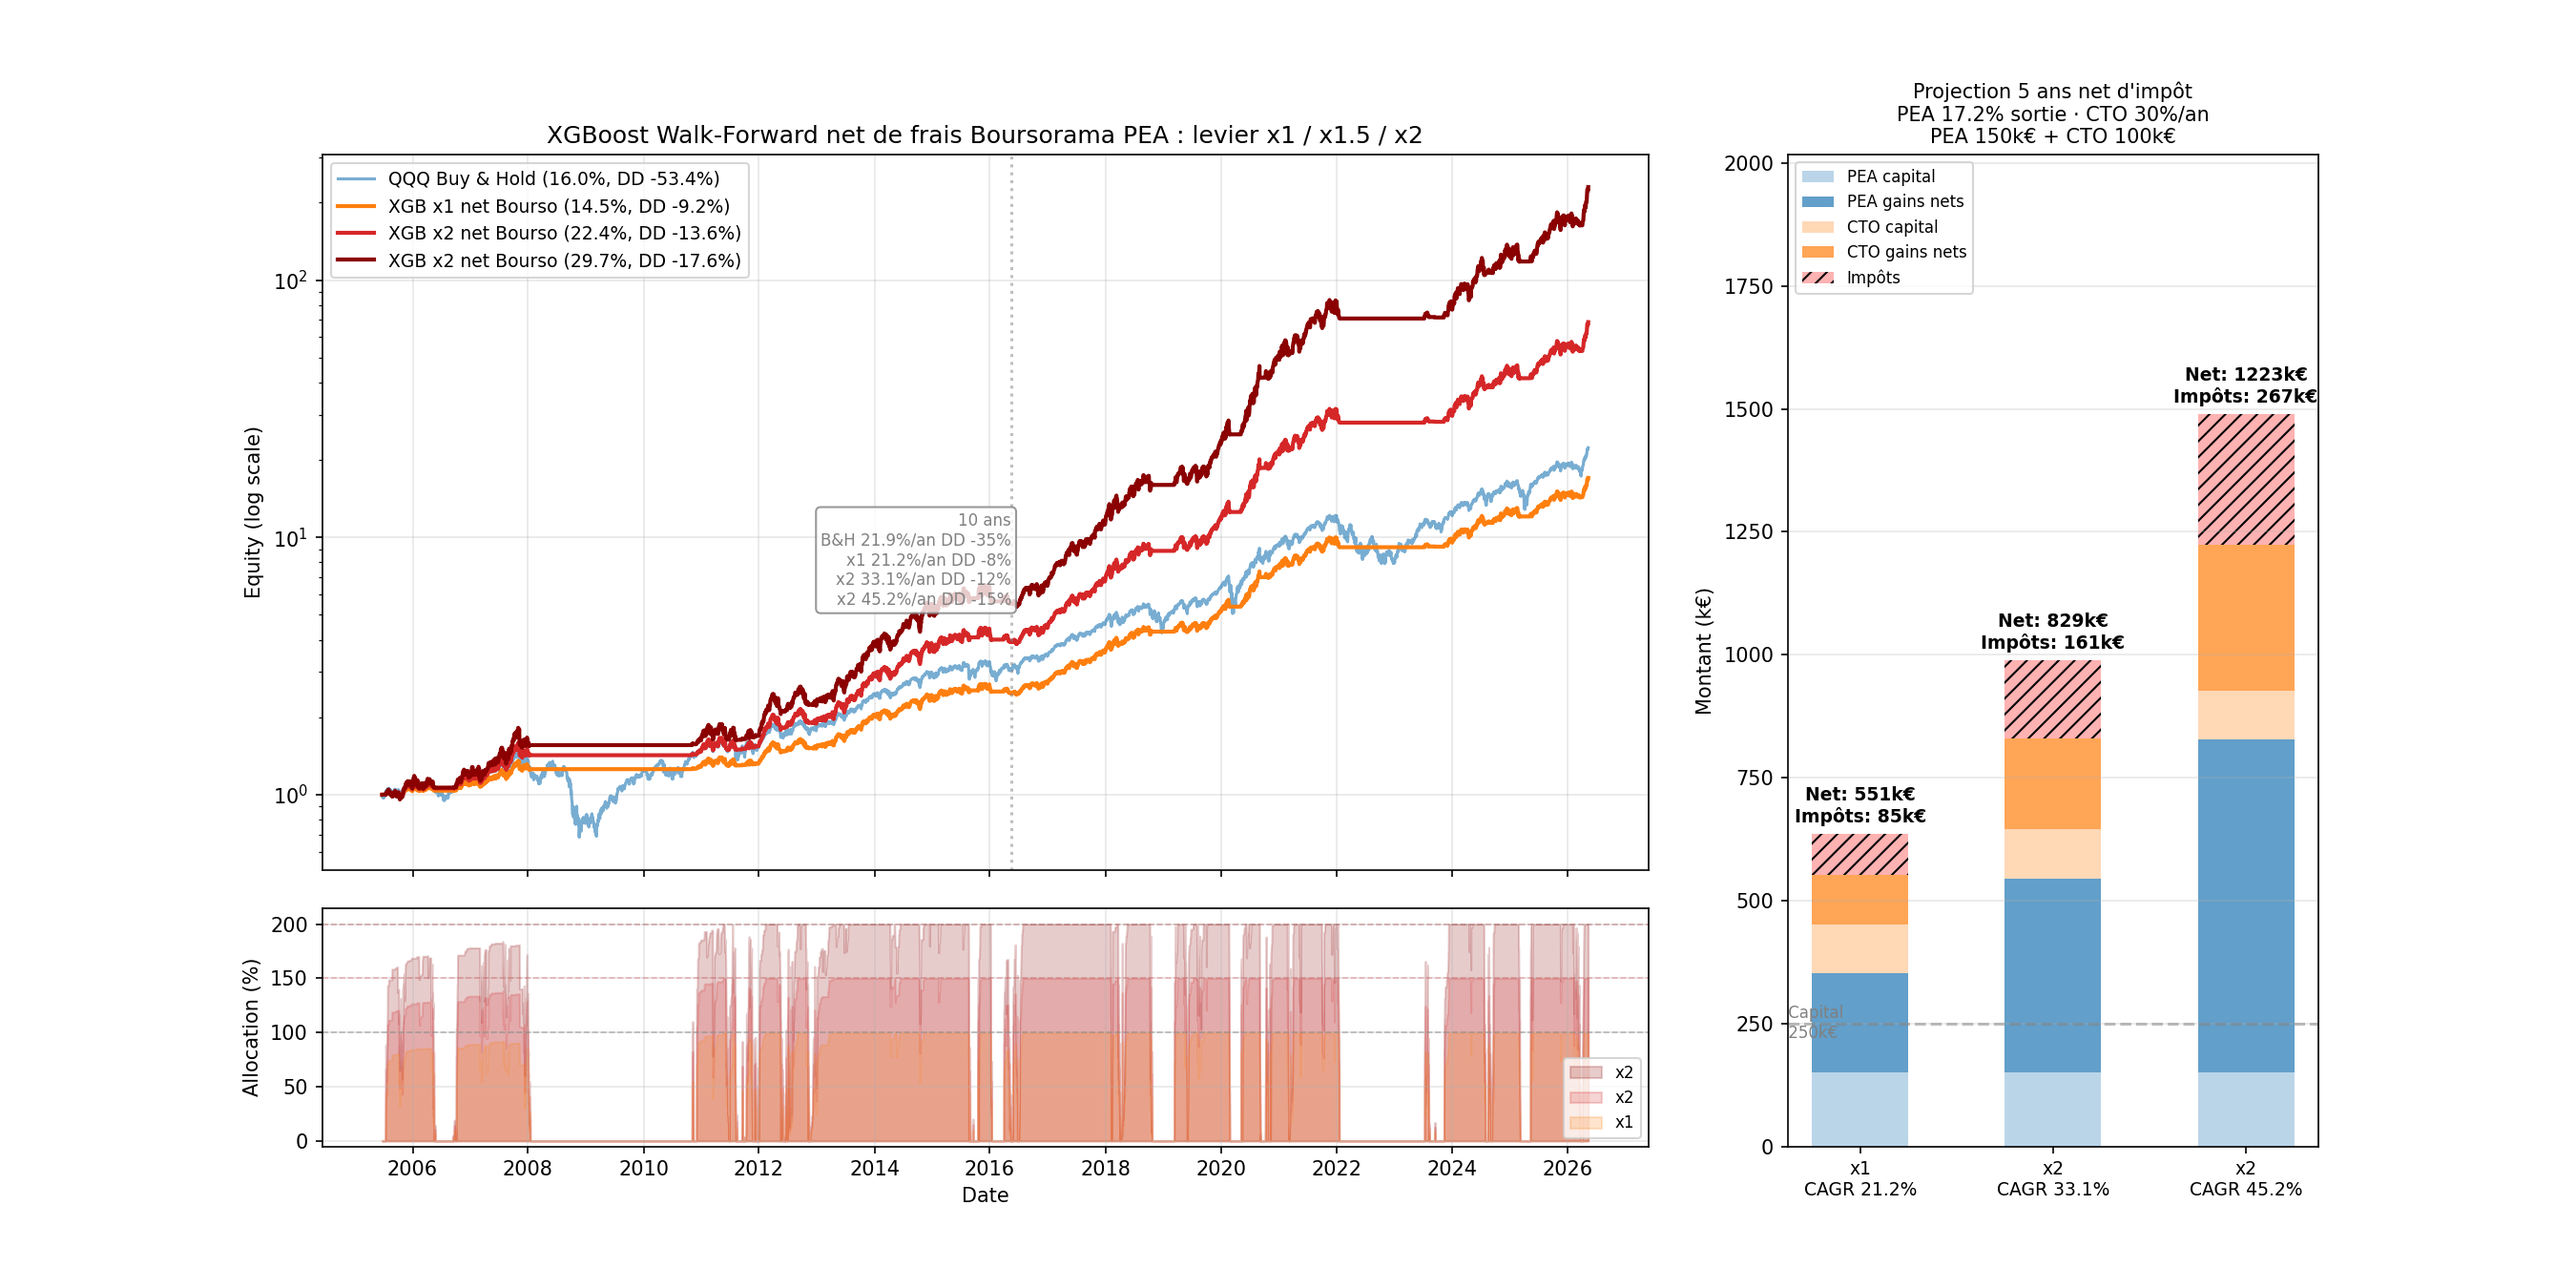
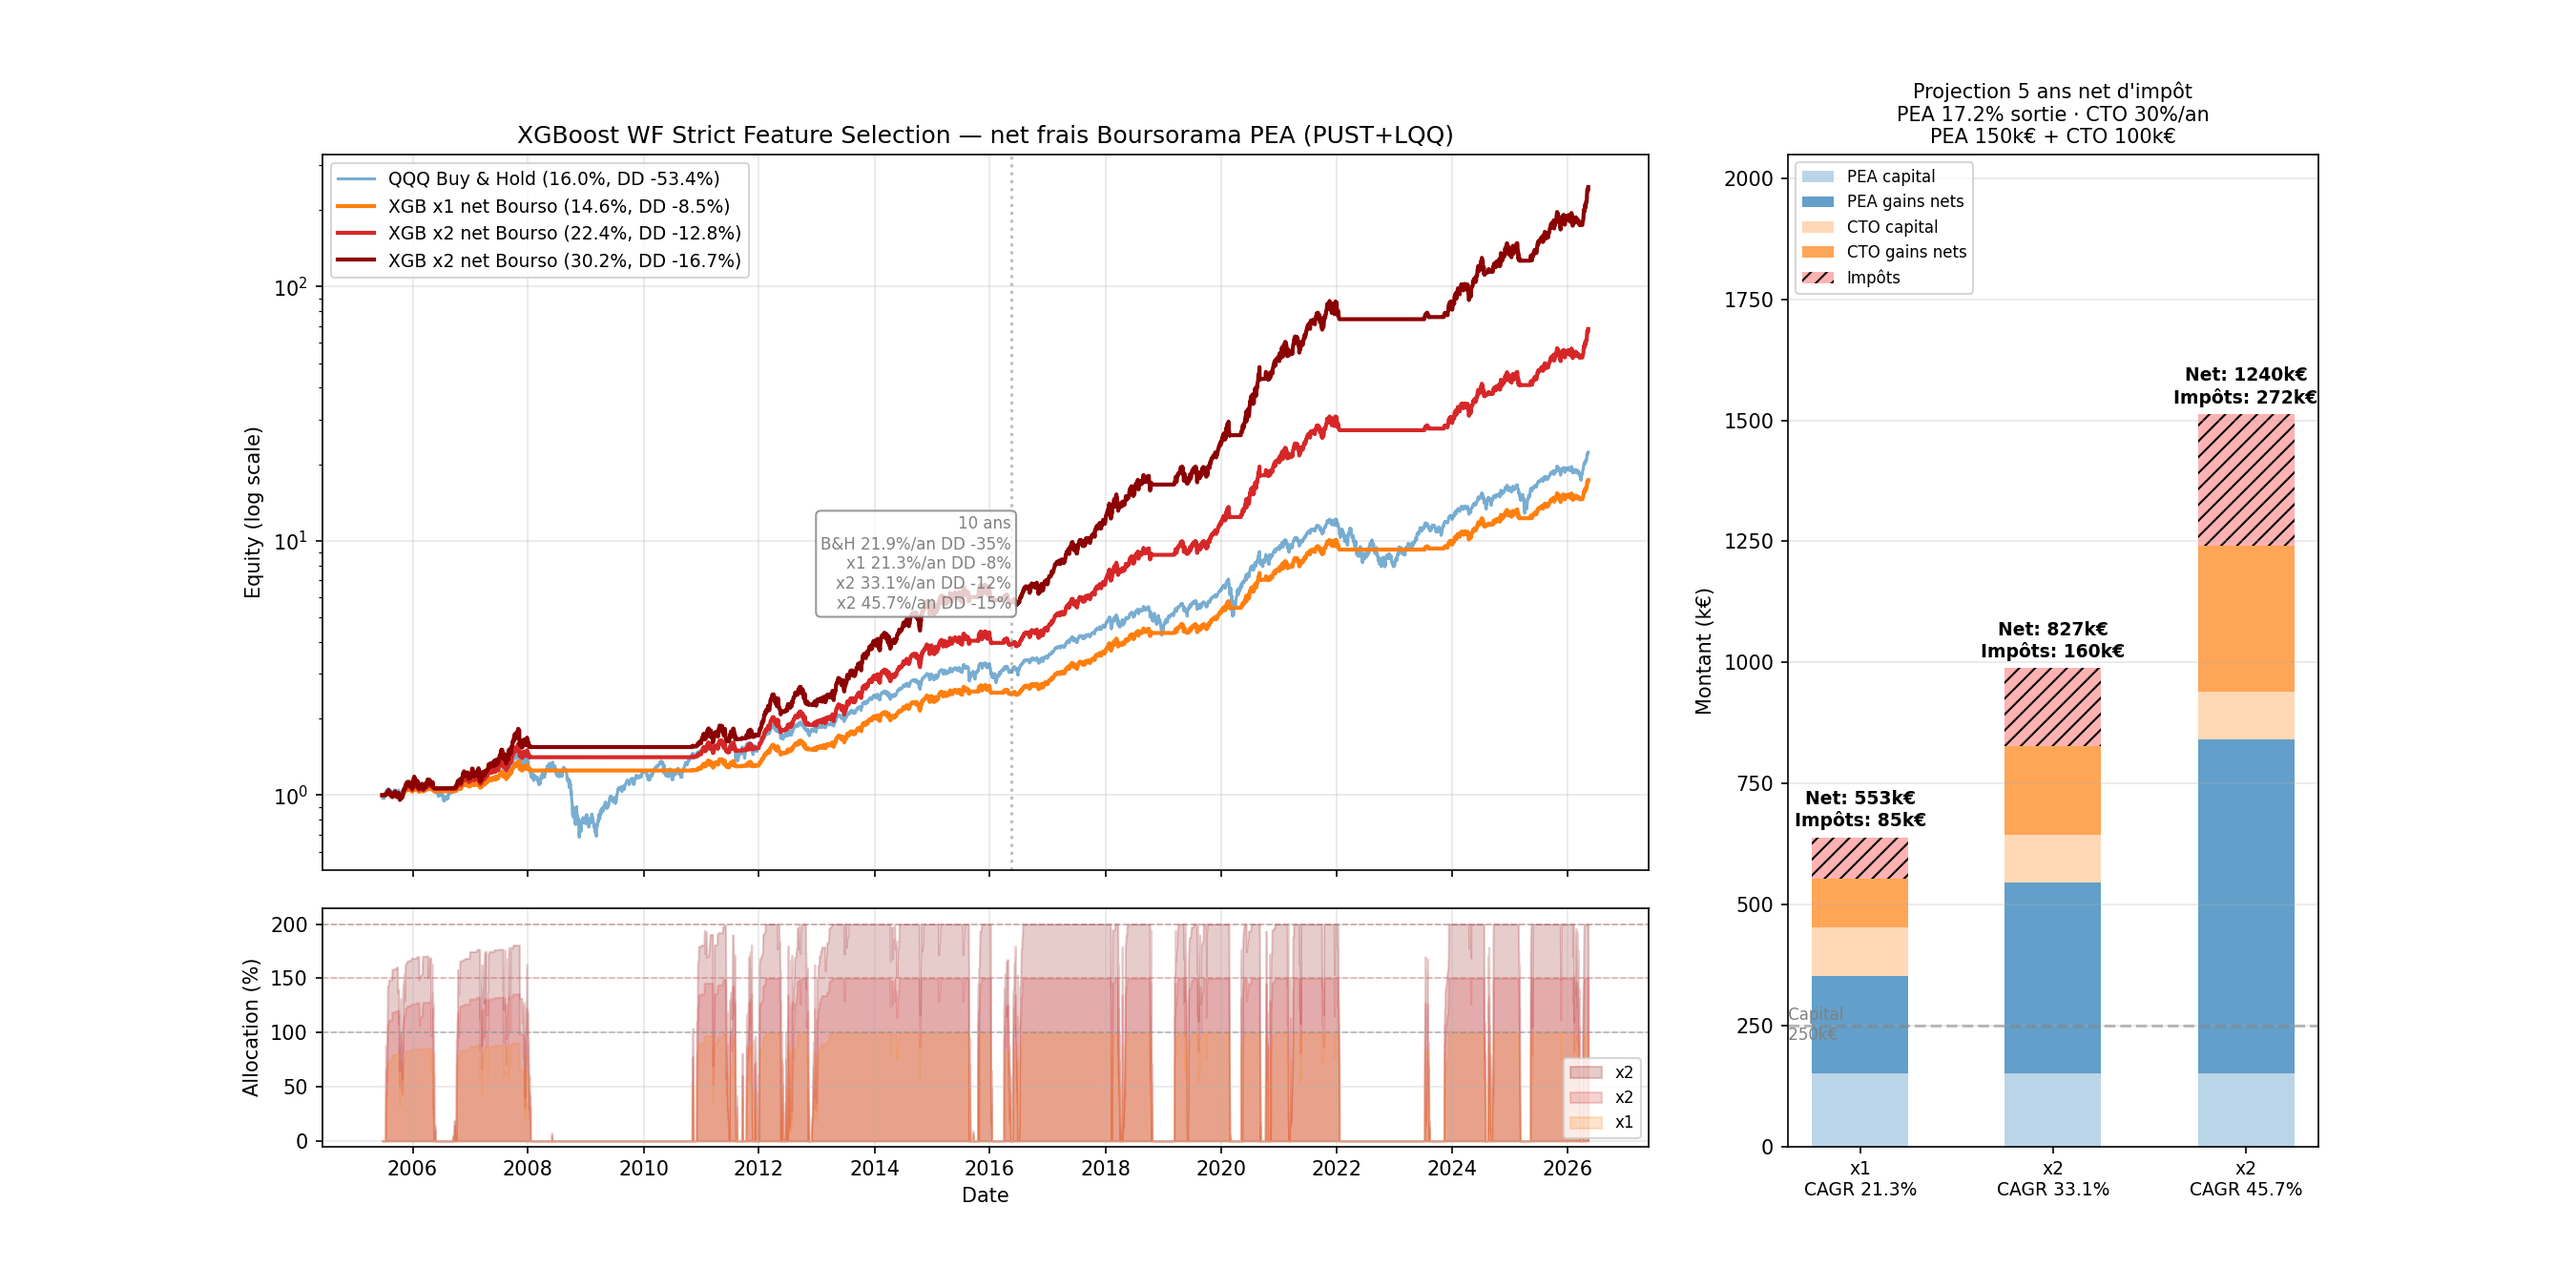
feat: walk-forward strict feature selection (3-period stability)
Per-step feature selection using mean/std^1.7 across 3 interlaced
periods. Only uses train data at each step (no look-ahead bias).
Features grow from 14 to 62 as data accumulates.
CAGR: 24.8% → 25.3% with fewer features and better robustness.

diff --git a/src/qqq_strategy/backtest.py b/src/qqq_strategy/backtest.py
@@ -12,8 +12,75 @@ def sigmoid(x):
     return 1 / (1 + np.exp(-x))
 
 
+def select_features_stable(X, y, feature_cols, block_size=21, embargo_rows=5,
+                           n_periods=3, mean_std_power=1.7, top_n=None,
+                           xgb_params=None, verbose=True):
+    """Select features with stable importance across interlaced periods.
+
+    Splits data into n_periods interlaced blocks, trains on (n-1) periods,
+    measures feature importance, keeps features with high mean/std^power.
+    """
+    if xgb_params is None:
+        xgb_params = dict(
+            n_estimators=300, max_depth=4, learning_rate=0.03,
+            subsample=0.7, colsample_bytree=0.7, min_child_weight=20,
+            reg_alpha=1.0, reg_lambda=5.0, gamma=1.0,
+            random_state=42, eval_metric="logloss",
+        )
+
+    N = len(X)
+    row_pos = np.arange(N)
+    block_idx = row_pos // block_size
+    block_id = block_idx % n_periods
+    pos_in_block = row_pos % block_size
+    not_embargoed = (pos_in_block >= embargo_rows) & (pos_in_block < block_size - embargo_rows)
+
+    importances = {}
+    for period in range(n_periods):
+        train_mask = (block_id != period) & not_embargoed
+        train_idx = np.where(train_mask)[0]
+
+        model = xgb.XGBClassifier(**xgb_params)
+        model.fit(X[train_idx], y[train_idx], verbose=False)
+        importances[period] = model.feature_importances_
+
+        top_idx = np.argsort(importances[period])[-5:][::-1]
+        if verbose:
+            print(f"  Period {period}: train={len(train_idx)} rows  "
+                  f"top5={[feature_cols[i] for i in top_idx]}")
+
+    # Stability: mean / std^power
+    imp_arr = np.array([importances[p] for p in range(n_periods)])  # (n_periods, n_features)
+    mean_imp = imp_arr.mean(axis=0)
+    std_imp = imp_arr.std(axis=0)
+    with np.errstate(divide='ignore', invalid='ignore'):
+        stability = np.where(std_imp > 0, mean_imp / (std_imp ** mean_std_power), 0)
+    stability = np.where(mean_imp > 0, stability, 0)
+
+    # Rank and select
+    ranked_idx = np.argsort(stability)[::-1]
+    n_nonzero = np.sum(stability > 0)
+    if top_n is None:
+        top_n = n_nonzero
+    n_selected = min(top_n, n_nonzero)
+    selected_idx = ranked_idx[:n_selected]
+
+    if verbose:
+        print(f"\n  Feature selection: {n_selected}/{len(feature_cols)} features kept "
+              f"(mean/std^{mean_std_power})")
+        for i, idx in enumerate(selected_idx[:20]):
+            print(f"    {feature_cols[idx]:30s}  mean={mean_imp[idx]:.4f}  "
+                  f"std={std_imp[idx]:.4f}  stab={stability[idx]:.1f}")
+        if n_selected > 20:
+            print(f"    ... ({n_selected - 20} more)")
+
+    selected_names = [feature_cols[i] for i in selected_idx]
+    return selected_idx, selected_names
+
+
 def walk_forward(X, y, feature_cols, min_train=504, step=21, embargo=21,
-                 temperature=3.0, xgb_params=None):
+                 temperature=3.0, xgb_params=None, feat_select=True,
+                 feat_top_n=None, feat_power=1.7):
     if xgb_params is None:
         xgb_params = dict(
             n_estimators=300, max_depth=4, learning_rate=0.03,
@@ -26,6 +93,8 @@ def walk_forward(X, y, feature_cols, min_train=504, step=21, embargo=21,
     wf_pred = np.full(N, -1, dtype=int)
     wf_proba = np.full(N, np.nan)
     last_model = None
+    last_feat_names = list(feature_cols)
+    n_steps = 0
 
     t = min_train
     while t < N:
@@ -38,24 +107,53 @@ def walk_forward(X, y, feature_cols, min_train=504, step=21, embargo=21,
             t = test_end
             continue
 
-        model = xgb.XGBClassifier(**xgb_params)
-        model.fit(X[train_idx], y[train_idx], verbose=False)
+        # Per-step feature selection on train data only
+        if feat_select and len(train_idx) >= min_train * 1.5:
+            sel_idx, sel_names = select_features_stable(
+                X[train_idx], y[train_idx], feature_cols,
+                mean_std_power=feat_power, top_n=feat_top_n,
+                xgb_params=xgb_params, verbose=False,
+            )
+            if len(sel_idx) >= 5:
+                X_train = X[train_idx][:, sel_idx]
+                X_test = X[test_idx][:, sel_idx]
+                last_feat_names = sel_names
+            else:
+                X_train = X[train_idx]
+                X_test = X[test_idx]
+        else:
+            X_train = X[train_idx]
+            X_test = X[test_idx]
 
-        dtest = xgb.DMatrix(X[test_idx])
+        model = xgb.XGBClassifier(**xgb_params)
+        model.fit(X_train, y[train_idx], verbose=False)
+
+        dtest = xgb.DMatrix(X_test)
         raw_logits = model.get_booster().predict(dtest, output_margin=True)
         smooth_proba = sigmoid(raw_logits / temperature)
 
         wf_proba[test_idx] = smooth_proba
         wf_pred[test_idx] = (smooth_proba >= 0.5).astype(int)
         last_model = model
+        n_steps += 1
+
+        if feat_select and n_steps % 50 == 1:
+            n_feat = len(last_feat_names)
+            print(f"  Step {n_steps}: t={t} train={len(train_idx)} "
+                  f"features={n_feat}/{len(feature_cols)}")
+
         t = test_end
 
-    # Top features
+    if feat_select:
+        print(f"\nWalk-forward: {n_steps} steps, last feature set: "
+              f"{len(last_feat_names)}/{len(feature_cols)}")
+
+    # Top features (last model)
     imp = last_model.feature_importances_
     top_idx = np.argsort(imp)[-20:][::-1]
     print(f"\nTop 20 features (last model):")
     for idx in top_idx:
-        print(f"  {feature_cols[idx]:30s} {imp[idx]:.4f}")
+        print(f"  {last_feat_names[idx]:30s} {imp[idx]:.4f}")
 
     return wf_pred, wf_proba, last_model
 
